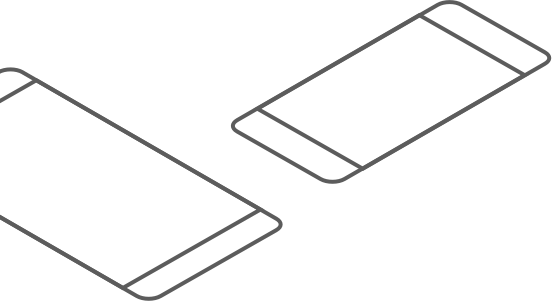
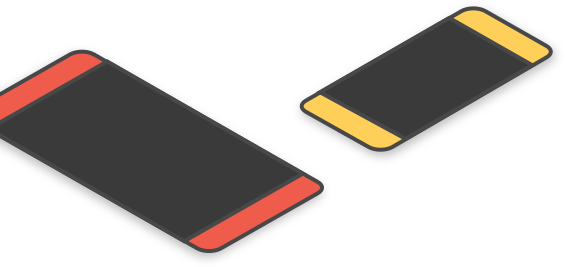
Breakpoint

diff --git a/css/main.css b/css/main.css
@@ -1,3 +1,3 @@
-@import url("https://fonts.googleapis.com/css?family=Varela+Round");h1{font-size:48px}h4{font-size:22px}html,body,div,span,applet,object,iframe,h1,h2,h3,h4,h5,h6,p,blockquote,pre,a,abbr,acronym,address,big,cite,code,del,dfn,em,img,ins,kbd,q,s,samp,small,strike,strong,sub,sup,tt,var,b,u,i,center,dl,dt,dd,ol,ul,li,fieldset,form,label,legend,table,caption,tbody,tfoot,thead,tr,th,td,article,aside,canvas,details,embed,figure,figcaption,footer,header,hgroup,menu,nav,output,ruby,section,summary,time,mark,audio,video{margin:0;padding:0;border:0;vertical-align:baseline;color:#5C5C5C;font-family:"Varela Round",Helvetica,sans-serif;font-weight:lighter;letter-spacing:0.5px}article,aside,details,figcaption,figure,footer,header,hgroup,menu,nav,section{display:block}body{line-height:1.4;background:#FAFAFA}ol,ul{list-style:none}blockquote,q{quotes:none}blockquote:before,blockquote:after{content:"";content:none}q:before,q:after{content:"";content:none}table{border-collapse:collapse;border-spacing:0}.dc-hero{height:80%;height:80vh;max-height:800px;display:-ms-flexbox;display:flex;-ms-flex-direction:column;flex-direction:column;-ms-flex-pack:distribute;justify-content:space-around;position:relative}.dc-hero h1{font-size:48px}.dc-hero--description{margin-top:40px;margin-bottom:40px}.dc-hero--description h4{line-height:1.5}.dc-hero--bg img{width:100%}.dc-hero--content-wrapper{position:absolute;width:100%}.dc-section{position:relative;padding-top:100px;padding-bottom:100px}.dc-section--header{font-size:42px;margin-bottom:50px}.dc-section--button{margin-top:60px}.dc-section--bottom-bg{position:absolute;top:0;left:0;right:0;z-index:-1}.dc-section--bottom-bg img{width:100%}.dc-card{border:5px solid #5C5C5C;box-shadow:0 10px 20px rgba(0,0,0,0.29);border-radius:25px;padding:36px 20px;background-color:#FAFAFA;margin-bottom:30px}.dc-card--img{margin-bottom:20px}.dc-card--body h3{margin-bottom:10px}.dc-schedule{margin-bottom:20px}.dc-schedule h4{margin:20px 0}.dc-schedule p{line-height:24px;position:relative;padding-left:30px;font-size:16px}.dc-faq--section{margin-bottom:40px}.dc-faq--section h4{margin:24px 0}.dc-faq--text{line-height:24px;position:relative;padding-left:55px}.dc-faq--text:before{content:' ';width:6px;height:50px;background-color:#5C5C5C;position:absolute;border-radius:3px;left:30px;top:0}.dc-featurette--left,.dc-featurette--right{position:absolute;z-index:-1;top:-40%}.dc-featurette--left{left:0}.dc-featurette--right{right:0}.dc-cta{position:absolute;top:35%;left:0;right:0}.dc-cta img{width:100%}.dc-footer{position:absolute;bottom:0;width:100%;padding-bottom:40px}.dc-footer #logo-dsp{width:100px;vertical-align:middle;height:100px}.dc-footer #logo-designatucsd{vertical-align:middle;margin-right:20px;width:200px}.dc-footer--presented h4{margin-bottom:20px}.dc-btn{padding:15px 50px;border-radius:12px;background-color:#FF2682;color:#fff;border:none;font-size:18px;letter-spacing:0.5px;box-shadow:0 10px 50px rgba(255,61,131,0.43)}.dc-btn:hover,.dc-btn:focus,.dc-btn:active,.dc-btn:visited{background-color:#FF2682 !important;box-shadow:0 10px 50px rgba(255,61,131,0.43)}
+@import url("https://fonts.googleapis.com/css?family=Varela+Round|Lato");h1{font-size:48px}h4{font-size:22px}html,body,div,span,applet,object,iframe,h1,h2,h3,h4,h5,h6,p,blockquote,pre,a,abbr,acronym,address,big,cite,code,del,dfn,em,img,ins,kbd,q,s,samp,small,strike,strong,sub,sup,tt,var,b,u,i,center,dl,dt,dd,ol,ul,li,fieldset,form,label,legend,table,caption,tbody,tfoot,thead,tr,th,td,article,aside,canvas,details,embed,figure,figcaption,footer,header,hgroup,menu,nav,output,ruby,section,summary,time,mark,audio,video{margin:0;padding:0;border:0;vertical-align:baseline;color:#5C5C5C;font-family:"Varela Round",Helvetica,sans-serif;font-weight:lighter;letter-spacing:0.5px}article,aside,details,figcaption,figure,footer,header,hgroup,menu,nav,section{display:block}body{line-height:1.4;background:#FAFAFA}ol,ul{list-style:none}h1,h2{font-family:"Lato",Helvetica,sans-serif}blockquote,q{quotes:none}blockquote:before,blockquote:after{content:"";content:none}q:before,q:after{content:"";content:none}table{border-collapse:collapse;border-spacing:0}.dc-section{position:relative;margin-top:200px;margin-bottom:200px}.dc-section--header{font-size:42px;margin-bottom:50px}.dc-section--button{margin-top:60px}.dc-section--bottom-bg{position:absolute;top:0;left:0;right:0;z-index:-1}.dc-section--blue,.dc-section--red,.dc-section--red,.dc-section--yellow,.dc-section--green,.dc-section--orange{z-index:-2}.dc-section--blue>div,.dc-section--red>div,.dc-section--red>div,.dc-section--yellow>div,.dc-section--green>div,.dc-section--orange>div{z-index:1}.dc-section--blue:before,.dc-section--red:before,.dc-section--red:before,.dc-section--yellow:before,.dc-section--green:before,.dc-section--orange:before{background:inherit;top:0;content:'';display:block;height:100%;left:0;position:absolute;right:0;transform:skewY(-30deg);transform-origin:20%;z-index:-1;box-shadow:0 -400px 0 #FAFAFA}.dc-section--blue:after,.dc-section--red:after,.dc-section--red:after,.dc-section--yellow:after,.dc-section--green:after,.dc-section--orange:after{background:inherit;bottom:0;content:'';display:block;height:100%;left:0;position:absolute;right:0;transform:skewY(-30deg);transform-origin:69%;z-index:-1;box-shadow:0 400px 0 #FAFAFA}.dc-section--blue{background:#65A2B8}.dc-section--red{background:#E51A42}.dc-section--green{background:#81B25B}.dc-section--yellow{background:#FFD059}.dc-section--orange{background:#F05C4C}.dc-hero{background-size:cover;height:80%;height:80vh;max-height:800px;display:-ms-flexbox;display:flex;-ms-flex-direction:column;flex-direction:column;-ms-flex-pack:distribute;justify-content:space-around;position:relative;margin:0}.dc-hero h1{font-size:48px}.dc-hero--description{margin-top:40px;margin-bottom:40px}.dc-hero--description h4{line-height:1.5}.dc-hero--bg{width:100%;height:100%;position:absolute;top:0}.dc-hero--bg img{width:auto;min-width:100%}.dc-hero--content-wrapper{position:absolute;width:100%}.dc-card{border:5px solid #5C5C5C;box-shadow:0 10px 20px rgba(0,0,0,0.29);border-radius:25px;padding:36px 20px;background-color:#FAFAFA;margin-bottom:30px}.dc-card--img{margin-bottom:20px}.dc-card--body h3{margin-bottom:10px}.dc-schedule{margin-bottom:20px}.dc-schedule h4{margin:20px 0}.dc-schedule p{line-height:24px;position:relative;padding-left:30px;font-size:16px}.dc-faq--section{margin-bottom:40px}.dc-faq--section h4{margin:24px 0}.dc-faq--text{line-height:24px;position:relative;padding-left:55px}.dc-faq--text:before{content:' ';width:6px;height:50px;background-color:#5C5C5C;position:absolute;border-radius:3px;left:30px;top:0}.dc-featurette{z-index:-2}.dc-featurette--left,.dc-featurette--right{position:absolute;z-index:-1;top:-20%}.dc-featurette--left{left:-60px}.dc-featurette--left.second{top:-37%}.dc-featurette--right{right:0;top:-75%}.dc-cta{position:absolute;top:35%;left:0;right:0}.dc-cta img{width:100%}.dc-footer{position:absolute;bottom:0;width:100%;padding-bottom:40px}.dc-footer #logo-dsp{width:100px;vertical-align:middle;height:100px}.dc-footer #logo-designatucsd{vertical-align:middle;margin-right:20px;width:200px}.dc-footer--presented h4{margin-bottom:20px}.dc-btn{padding:15px 50px;border-radius:12px;background-color:#F05C4C;color:#FAFAFA;border:none;font-size:18px;letter-spacing:0.5px;box-shadow:0px 4px 20px rgba(0,0,0,0.25)}.dc-btn:hover,.dc-btn:focus,.dc-btn:active,.dc-btn:visited{background-color:#F05C4C !important;box-shadow:0px 4px 20px rgba(0,0,0,0.25)}
 
 /*# sourceMappingURL=main.css.map */

diff --git a/scss/pages/_home.scss b/scss/pages/_home.scss
@@ -1,40 +1,7 @@
-.dc-hero {
-  // background: url('../images/background.png') no-repeat center center;
-  height: 80%;
-  height: 80vh;
-  max-height: 800px;
-  display: flex;
-  flex-direction: column;
-  justify-content: space-around;
-  position: relative;
-
-  h1 {
-    font-size: 48px;
-  }
-  &--description {
-    margin-top: 40px;
-    margin-bottom: 40px;
-
-    h4 {
-      line-height: 1.5;
-    }
-  }
-  &--bg {
-    // Mobile styles (shove image to right)
-    // @media screen and (max-width)
-    img {
-      width: 100%;
-    }
-  }
-  &--content-wrapper {
-    position: absolute;
-    width: 100%;
-  }
-}
 .dc-section {
   position: relative;
-  padding-top: 100px;
-  padding-bottom: 100px;
+  margin-top: 200px;
+  margin-bottom: 200px;
 
   &--header {
     font-size: 42px;
@@ -54,10 +21,109 @@
     z-index: -1;
 
     img {
-      width: 100%;
     }
   }
+  &--blue,
+  &--red,
+  &--red,
+  &--yellow,
+  &--green,
+  &--orange {
+    z-index: -2;
+
+    &>div {
+      z-index: 1;
+    }
+    &:before {
+      background: inherit;
+      top: 0;
+      content: '';
+      display: block;
+      height: 100%;
+      left: 0;
+      position: absolute;
+      right: 0;
+      transform: skewY(-30deg);
+      transform-origin: 20%;
+      z-index: -1;
+      box-shadow: 0 -400px 0 $WHITE;
+    }
+    &:after {
+      background: inherit;
+      bottom: 0;
+      content: '';
+      display: block;
+      height: 100%;
+      left: 0;
+      position: absolute;
+      right: 0;
+      transform: skewY(-30deg);
+      transform-origin: 69%;
+      z-index: -1;  
+      box-shadow: 0 400px 0 $WHITE;
+    }
+  }
+  &--blue {
+    background: $BLUE_1;
+  }
+  &--red {
+    background: $RED_1;
+  }
+  &--green {
+    background: $GREEN_1;
+  }
+  &--yellow {
+    background: $YELLOW_1;
+  }
+  &--orange {
+    background: $ORANGE_1;
+  }
 }
+
+.dc-hero {
+  // background: url('../images/background.png') no-repeat 0 center;
+  background-size: cover;
+  height: 80%;
+  height: 80vh;
+  max-height: 800px;
+  display: flex;
+  flex-direction: column;
+  justify-content: space-around;
+  position: relative;
+  margin: 0;
+
+  h1 {
+    font-size: 48px;
+  }
+  &--description {
+    margin-top: 40px;
+    margin-bottom: 40px;
+
+    h4 {
+      line-height: 1.5;
+    }
+  }
+  &--bg {
+    // Mobile styles (shove image to right)
+    // @media screen and (max-width)
+    // overflow-x: hidden;
+    // height: 100%;
+    width: 100%;
+    height: 100%;
+    position: absolute;
+    top: 0;
+
+    img {
+      width: auto;
+      min-width: 100%;
+    }
+  }
+  &--content-wrapper {
+    position: absolute;
+    width: 100%;
+  }
+}
+
 .dc-card {
   border: 5px solid $GRAY_1;
   box-shadow: 0 10px 20px $SHADOW_COLOR;
@@ -75,6 +141,7 @@
     }
   }
 }
+
 .dc-schedule {
   margin-bottom: 20px;
 
@@ -124,20 +191,29 @@
     }
   }
 }
+
 .dc-featurette {
+  z-index: -2;
+
   &--left,
   &--right {
     position: absolute;
     z-index: -1;
-    top: -40%;
+    top: -20%;
   }
   &--left {
-    left: 0;
+    left: -60px;
+
+    &.second {
+      top: -37%;
+    }
   }
   &--right {
     right: 0;
+    top: -75%;
   }
 }
+
 .dc-cta {
   position: absolute;
   top: 35%;
@@ -148,6 +224,7 @@
     width: 100%;
   }
 }
+
 .dc-footer {
   // background-color: $GRAY_2;
   position: absolute;
@@ -169,21 +246,22 @@
     margin-bottom: 20px;
   }
 }
+
 .dc-btn {
   padding: 15px 50px;
   border-radius: 12px;
-  background-color: $PINK_1;
+  background-color: $ORANGE_1;
   color: $WHITE;
   border: none;
   font-size: 18px;
   letter-spacing: 0.5px;
-  box-shadow: 0 10px 50px $PINK_SHADOW;
+  box-shadow: 0px 4px 20px $PINK_SHADOW;
 
   &:hover,
   &:focus,
   &:active,
   &:visited {
-    background-color: $PINK_1 !important;
-    box-shadow: 0 10px 50px $PINK_SHADOW;
+    background-color: $ORANGE_1 !important;
+    box-shadow: 0px 4px 20px $PINK_SHADOW;
   }
 }

diff --git a/index.html b/index.html
@@ -6,7 +6,7 @@
   <meta property="og:title" content="Boilerplate">
   <meta property="og:description" content="Website of Boilerplate">
   <meta property="og:image" content="images/logo.png"><meta property="og:image:secure_url" content="images/logo.png">
-  <meta property="og:image:type" content="image/png"><title>Boilerplate</title>
+  <meta property="og:image:type" content="image/png"><title>Design Conference</title>
   <meta name="theme-color" content="#19A3C5">
   <meta name="description" content="Website of Boilerplate">
   <meta name="keywords" content="Keywords">
@@ -28,7 +28,7 @@
         <div class="container dc-hero--content">
           <div class="row">
             <div class="col-sm-8 col-md-6 dc-hero--content">
-              <h1>UC San Diego Design Conference</h1>
+              <h1>UC San Diego <br/>Design Conference</h1>
 
               <div class="dc-hero--description">
                 <h4>May 20, 2017</h4>
@@ -115,7 +115,7 @@
     </div>
 
 
-    <div class="section dc-section">
+    <div class="section dc-section dc-section--green">
       <div class="dc-featurette--left"><img src="images/phones1.png" /></div>
       <div class="container">
         <div class="row text-center">
@@ -201,7 +201,7 @@
       </div>
     </div>
 
-    <div class="section dc-section">
+    <div class="section dc-section dc-section--white">
       <div class="dc-featurette--right"><img src="images/phones2.png" /></div>
 
       <div class="container">
@@ -252,8 +252,8 @@
     </div>
 
 
-    <div class="section dc-section dc-faq">
-      <div class="dc-featurette--left"><img src="images/phones1.png" /></div>
+    <div class="section dc-section dc-faq dc-section--yellow">
+      <div class="dc-featurette--left second"><img src="images/phones1.png" /></div>
 
       <div class="container">
         <div class="row text-center">

diff --git a/scss/globals.scss b/scss/globals.scss
@@ -2,9 +2,9 @@
 
 /* Fonts */
   // Font imports
-  @import url('https://fonts.googleapis.com/css?family=Varela+Round');
+  @import url('https://fonts.googleapis.com/css?family=Varela+Round|Lato');
 
-  $HEADER_FONT: "Varela Round", Helvetica, sans-serif;
+  $HEADER_FONT: "Lato", Helvetica, sans-serif;
   $TEXT_FONT: "Varela Round", Helvetica, sans-serif;
 
 /* Colors */
@@ -14,10 +14,48 @@
 
   $PINK_1: #FF2682;
 
-  $PINK_SHADOW: rgba(255, 61, 131, .43);
+  /* Document colors */
+  $ORANGE_1: #F05C4C;
 
-  $WHITE: #FFFFFF;
+  $BLUE_1: #65A2B8;
+
+  $GREEN_1: #81B25B;
+
+  $RED_1: #E51A42;
+
+  $YELLOW_1: #FFD059;
+
+
+  $PINK_SHADOW: rgba(0, 0, 0, .25);
+
+  $WHITE: #FAFAFA;
 
   $SHADOW_COLOR: rgba(0, 0, 0, .29);
 
   $BACKGROUND_COLOR: #FAFAFA;
+
+/* Breakpoints */
+  // Note breakpoints are the upper bound of each device size
+  // Usage: @media screen and (max-width: $BP_WHATEVER) { }
+
+  /* Bootstrap 6 default breakpoints 
+   * $breakpoints: (
+   *   small: 0px,
+   *   medium: 640px,
+   *   large: 1024px,
+   *   xlarge: 1200px,
+   *   xxlarge: 1440px,
+   * );
+   */
+
+  // Small mobile device
+  $BP_SM: 640px;
+
+  // Mobile device width upper bound
+  $BP_MD: 768px;
+  
+  // Tablet width upper bound
+  $BP_LG: 992px;
+
+  // Small desktop width upper bound (ie laptops)
+  $BP_XL: 1200px;

diff --git a/scss/resets.scss b/scss/resets.scss
@@ -25,6 +25,9 @@
   ol, ul {
     list-style: none;
   }
+  h1, h2 {
+    font-family: $HEADER_FONT;
+  }
   blockquote, q {
     quotes: none;
   }
